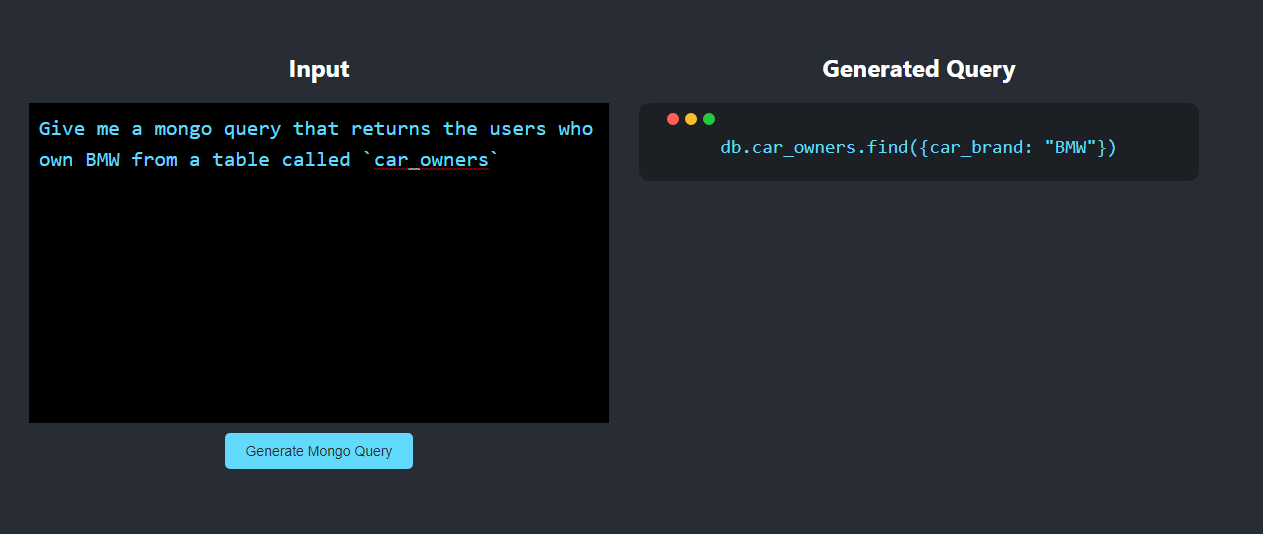
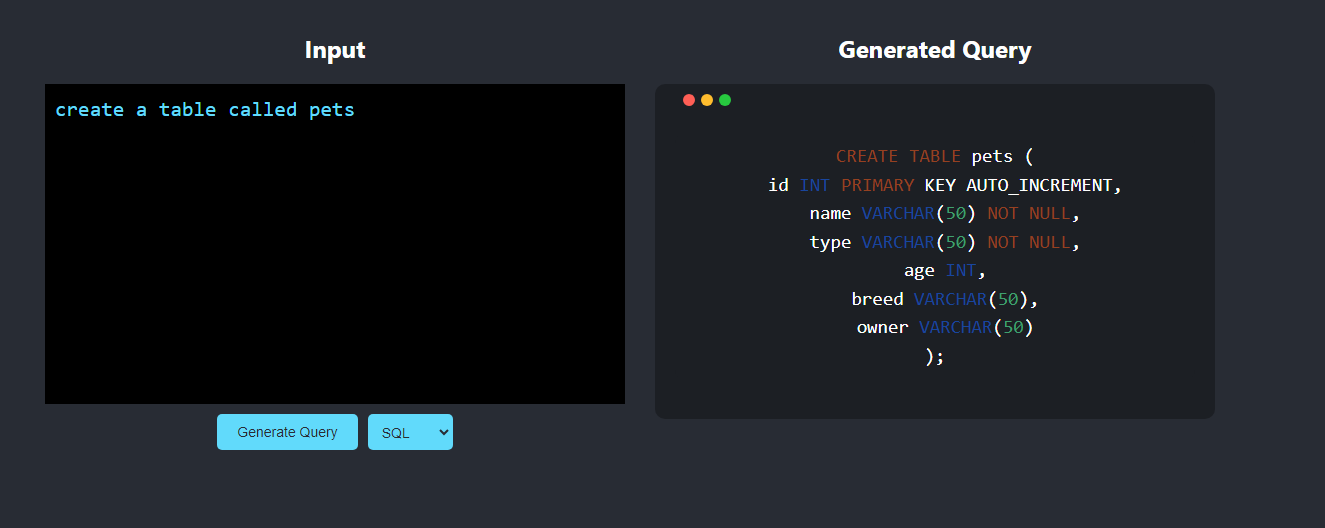
Updating README, this project is done :)

diff --git a/README.md b/README.md
@@ -1,9 +1,31 @@
-# Mongo Query Generator
+# Query Generator
 
-This repo will be able to generate mongo queries from simple english.  Powered by ChatGPT api. 
+This repo will be able to generate queries from simple english.  Powered by ChatGPT api and LangChain support. Behind the scene, LangChain is used to normalize the user input to a standardized template.  That template is then passed along to OpenAI API model for `ChatCompletion`.  As of July 3rd, 2023, that is the available API endpoint being used for this project. 
 
 ## Example
 
-This is an example usage.  The backend will be reaching out to the ChatGPT API to generate the responses.
+This is an example usage.  The backend will be reaching out to the ChatGPT API to generate the responses. Users have the option of chosing between Mongo and Vanilla SQL.
 
 ![image_example](images/Example.PNG)
+
+## How to run
+
+In order to run the UI you will need to run `npm start` inside the `query-generator` folder. This is will run the UI. Consequently, you will also need to spin up the server. 
+
+Before spinning up the server however, you will need to create an environment variable with your API key. The environment variable needs to be called `OPENAI_API_KEY`. 
+
+#### Mac/Linux
+```bash
+source ../../.env
+node server.js
+```
+
+#### Windows
+```cmd
+set ../../env.bat
+node server.js
+```
+
+This will spin up the server that the UI will be communicating with for the responses. Once the server and the UI have been established, you will be able to use the UI to generate your query responses using ChatGPT. 
+
+**NOTE**: _The API is only using `gpt-3.5-turbo` model since this was an experimental project_
